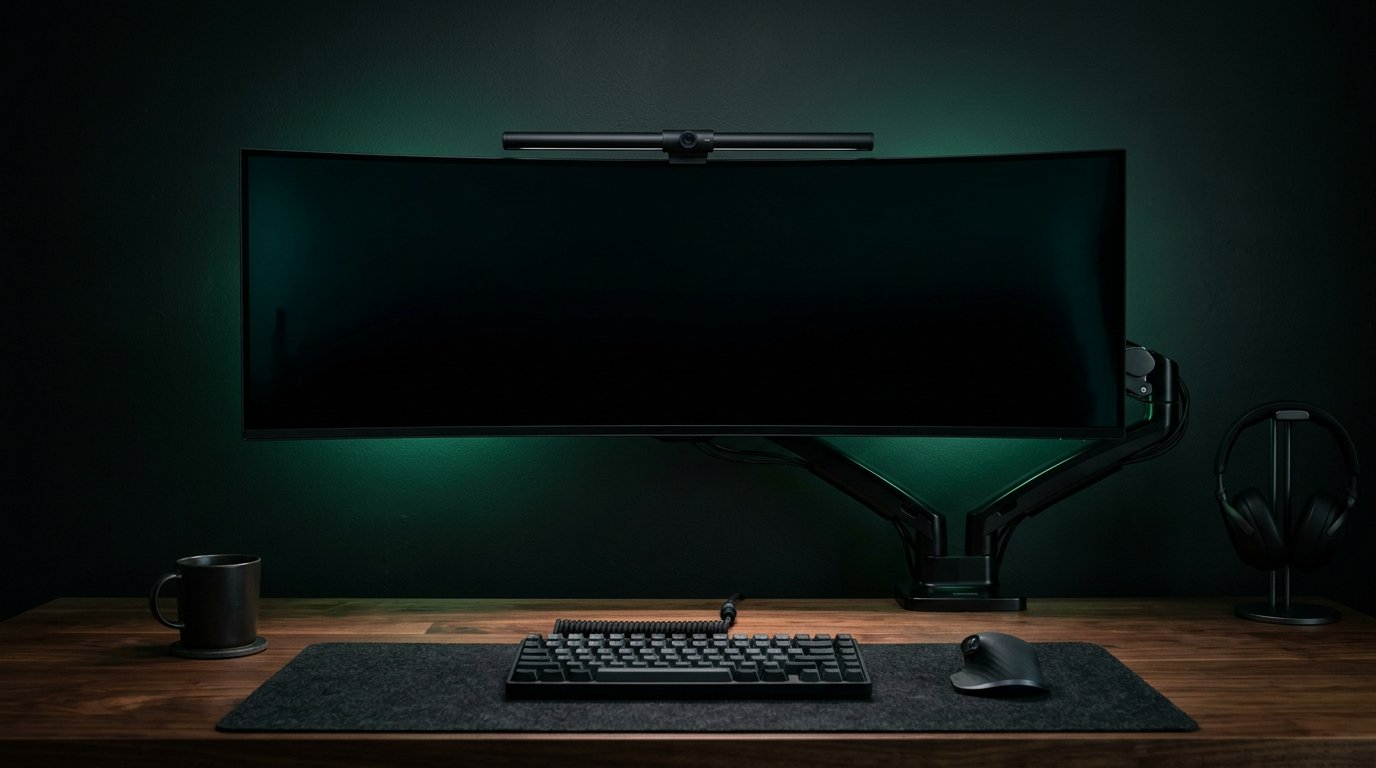
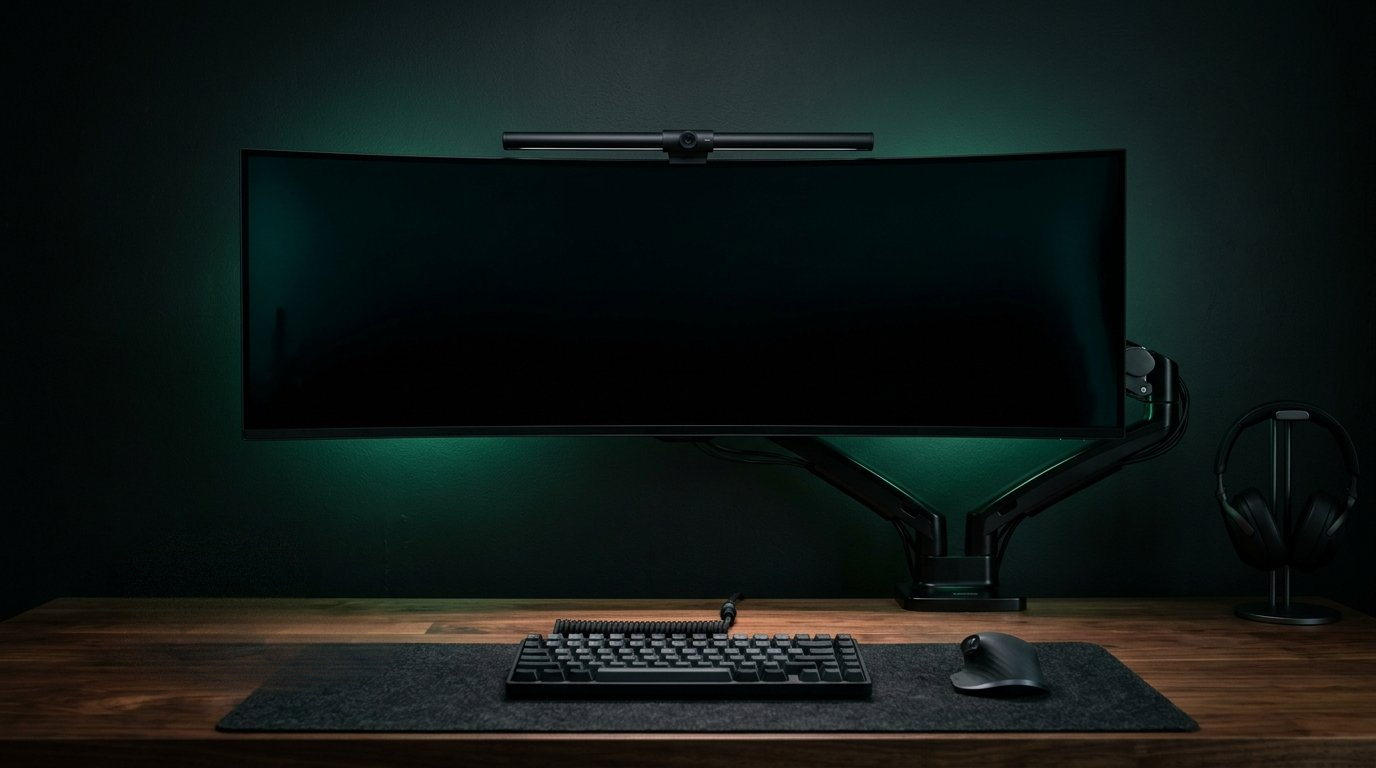
hero: clear the desk, and put the clock on the panel
The reference shot had two things worth keeping: an uncluttered desk, and a
lock-screen readout low-left on the monitor. The photo had a coffee mug in the
corner that the shot didn't ask for, and the panel was blank.

- hero-monitor.jpg: mug, coaster and cast shadow painted out by continuing each
  scanline across the gap — mirrored grain on the wood so the boards run
  unbroken, a row ramp on the wall so the green glow keeps its falloff, grain
  matched back in. Only the 228x140 box around the mug changed; same weight as
  the original file.
- HeroClock: the readout is real DOM over the photo, not baked pixels, so it
  stays selectable and sharp at any zoom. Space Grotesk (variable, added via
  Fontsource so it self-hosts) for the time at 430 — engineered enough for the
  LED-matrix and terminal vocabulary of the rest of the site, open enough to
  read at lock-screen scale — with the date as an IBM Plex Mono readout,
  tracked out, and a signal-green hairline between them.
- Sized against the frame, not the viewport: .hero-frame is a container, so
  every value is a share of the monitor and the block stays inside the bezel
  from 320px to ultrawide. Phones crop the photo rather than fit it, so below
  850px the readout moves to the visible centre of the panel and switches to
  viewport units.
- Animation lands with the boot reveal (5.35s): backlight bloom, digits
  focus-pull in one by one, rule draws out, date closes its tracking. The base
[…]

Changed region(s): [[0.125, 0.7188, 0.2188, 0.9062]]

diff --git a/src/index.css b/src/index.css
@@ -8,9 +8,10 @@
 @import '@fontsource/inter/latin-600';
 @import '@fontsource/pinyon-script/latin-400';
 @import '@fontsource/ibm-plex-mono/latin-400';
+@import '@fontsource-variable/space-grotesk/wght.css';
 
-@theme{--color-paper:#f3efe7;--color-paper-2:#eae4d8;--color-ink:#161513;--color-mute:#6a655c;--color-line:#d9d2c5;--color-rust:#b4451a;--color-signal:#c9f27a;--font-display:'Cormorant Garamond',serif;--font-body:'Inter',sans-serif;--font-mono:'IBM Plex Mono',ui-monospace,monospace;--font-script:'Pinyon Script',cursive}
-:root{--black:#050505;--white:#f4f2ed;--green:#00f083;--gray:#969696;--line:#282828;--serif:'Cormorant Garamond','EB Garamond','Times New Roman',serif;--sans:'Inter','Helvetica Neue',Arial,sans-serif;--mono:'IBM Plex Mono',ui-monospace,monospace;--script:'Pinyon Script',cursive;color-scheme:dark}
+@theme{--color-paper:#f3efe7;--color-paper-2:#eae4d8;--color-ink:#161513;--color-mute:#6a655c;--color-line:#d9d2c5;--color-rust:#b4451a;--color-signal:#c9f27a;--font-display:'Cormorant Garamond',serif;--font-body:'Inter',sans-serif;--font-mono:'IBM Plex Mono',ui-monospace,monospace;--font-grotesk:'Space Grotesk Variable',sans-serif;--font-script:'Pinyon Script',cursive}
+:root{--black:#050505;--white:#f4f2ed;--green:#00f083;--gray:#969696;--line:#282828;--serif:'Cormorant Garamond','EB Garamond','Times New Roman',serif;--sans:'Inter','Helvetica Neue',Arial,sans-serif;--mono:'IBM Plex Mono',ui-monospace,monospace;--script:'Pinyon Script',cursive;--grotesk:'Space Grotesk Variable','Space Grotesk',var(--sans);color-scheme:dark}
 *{box-sizing:border-box}html{background:var(--black);color:var(--white);scroll-behavior:smooth}body{margin:0;background:var(--black);font-family:var(--sans);font-size:14px;line-height:1.45;overflow-x:hidden}a{color:inherit;text-decoration:none}button{font:inherit}.skip-link{position:fixed;top:-60px;left:20px;z-index:100;padding:10px;background:white;color:black}.skip-link:focus{top:12px}:focus-visible{outline:1px solid var(--green);outline-offset:4px}::selection{background:var(--green);color:#000}
 .side-nav{position:fixed;z-index:50;left:28px;top:24px;width:90px}.nav-name{display:block;font-family:var(--serif);font-size:15px;margin-bottom:14px}.side-nav nav{display:flex;flex-direction:column;align-items:flex-start}.side-nav nav a{font-size:11px;line-height:1.55;transition:.2s}.side-nav nav a:hover{color:var(--green);padding-left:4px}.menu-toggle{display:none}
 .hero{min-height:100vh;position:relative;overflow:hidden;display:flex;justify-content:center;align-items:flex-start;padding-top:6vh}
@@ -33,8 +34,49 @@
   font-size: clamp(24px, 6vw, 48px);
   color: var(--white);
   text-shadow: 0 2px 4px rgba(0,0,0,.5);
-  opacity: 0;
-  animation: fadeIn 1s ease-out 0.5s forwards;
+}
+
+/* ——— hero lock-screen readout —————————————————————————————————————————————
+   The panel in hero-monitor.jpg is a photograph, so the clock on it is real
+   DOM laid over it in percentages of the frame. .hero-frame carries the photo's
+   own 1376x768 ratio and is a size container, which means every dimension here
+   is a share of the monitor itself: the readout grows and shrinks with the
+   screen instead of the viewport, and stays inside the bezel at any width.
+
+   Base state = fully drawn and sharp. The intro only exists while the boot
+   sequence is on (html[data-boot]), so a reduced-motion visitor — or a crawler
+   that never runs the animation — gets the finished, crisp thing.
+   ————————————————————————————————————————————————————————————————————————— */
+.hero-frame{container-type:inline-size}
+.hero-clock{position:absolute;left:22%;bottom:47.4%;z-index:130;display:grid;justify-items:start;gap:max(11px,.8cqw);pointer-events:none}
+.hero-clock-bloom{position:absolute;left:-9%;bottom:-16%;width:132%;height:150%;border-radius:50%;background:radial-gradient(ellipse at 34% 52%,rgba(150,255,196,.13),rgba(0,240,131,.055) 42%,transparent 72%);filter:blur(14px);opacity:.55;pointer-events:none}
+.hero-clock-sweep{position:absolute;left:-4%;top:-6%;width:108%;height:112%;pointer-events:none;opacity:0;background:linear-gradient(180deg,transparent 0,rgba(196,255,214,.16) 44%,rgba(255,255,255,.06) 52%,transparent 76%);mix-blend-mode:screen}
+.hero-clock-time{position:relative;display:flex;margin:0;font-family:var(--grotesk);font-weight:430;font-size:max(34px,5.4cqw);line-height:.82;letter-spacing:-.018em;color:var(--white);font-variant-numeric:tabular-nums}
+.hc-char{display:inline-block}
+.hero-clock-rule{position:relative;display:block;transform-origin:left;width:max(30px,3.4cqw);height:max(2px,.24cqw);border-radius:2px;background:var(--green);box-shadow:0 0 10px rgba(0,240,131,.5)}
+.hero-clock-date{position:relative;margin:0;font-family:var(--mono);font-weight:400;font-size:max(9px,1.15cqw);line-height:1;letter-spacing:.34em;text-transform:uppercase;color:#c9ccc6;text-shadow:0 1px 5px rgba(0,0,0,.55)}
+html[data-boot] .hero-tagline{animation:hcTag 1.2s ease-out calc(var(--hero-in,0s) + 1.15s) both}
+html[data-boot] .hero-clock-bloom{animation:hcBloom 2.6s cubic-bezier(.2,.7,.2,1) calc(var(--hero-in,0s) - .3s) both}
+html[data-boot] .hc-char{animation:hcChar .82s cubic-bezier(.16,1,.3,1) calc(var(--hero-in,0s) + .18s + var(--hc-i,0)*.085s) both}
+html[data-boot] .hero-clock-rule{animation:hcRule .75s cubic-bezier(.16,1,.3,1) calc(var(--hero-in,0s) + .62s) both}
+html[data-boot] .hero-clock-date{animation:hcDate 1s cubic-bezier(.16,1,.3,1) calc(var(--hero-in,0s) + .74s) both}
+html[data-boot] .hero-clock-sweep{animation:hcSweep 1.25s cubic-bezier(.42,0,.3,1) calc(var(--hero-in,0s) + .1s) both}
+@keyframes hcTag{0%{opacity:0;transform:translate(-50%,12px);filter:blur(7px)}100%{opacity:1;transform:translate(-50%,0);filter:blur(0)}}
+@keyframes hcChar{0%{opacity:0;transform:translateY(.42em) scale(.965);filter:blur(9px)}60%{opacity:1;filter:blur(0)}100%{opacity:1;transform:none;filter:blur(0)}}
+@keyframes hcDate{0%{opacity:0;transform:translateY(7px);letter-spacing:.72em;filter:blur(4px)}100%{opacity:1;transform:none;letter-spacing:.34em;filter:blur(0)}}
+@keyframes hcRule{0%{opacity:0;transform:scaleX(0)}100%{opacity:1;transform:scaleX(1)}}
+@keyframes hcBloom{0%{opacity:0}22%{opacity:1}100%{opacity:.55}}
+@keyframes hcSweep{0%{opacity:0;transform:translateY(-58%)}22%{opacity:1}100%{opacity:0;transform:translateY(66%)}}
+/* Small screens: the photo is centred and cropped, not fitted, so the panel's
+   low-left corner is off-frame. The readout moves to the middle of whatever is
+   actually visible and switches to viewport units, so it sizes to the screen
+   rather than to a frame the visitor can only see a slice of. */
+@media(max-width:850px){
+.hero-clock{left:50%;transform:translateX(-50%);bottom:47%;justify-items:center;gap:max(8px,1.7vw)}
+.hero-clock-time{font-size:clamp(30px,9.4vw,54px)}
+.hero-clock-rule{width:clamp(26px,7vw,44px);height:2px}
+.hero-clock-date{font-size:clamp(9px,2.7vw,13px);letter-spacing:.26em}
+.hero-clock-bloom{left:-14%;width:128%}
 }
 @keyframes fadeIn {
   to { opacity: 1; }
@@ -49,12 +91,10 @@
 @keyframes helloIn{from{opacity:0;transform:translateY(.35em);filter:blur(8px)}to{opacity:1;transform:translateY(0);filter:blur(0)}}
 @media(min-aspect-ratio:2/1){.tv-hello{top:12.5%;font-size:clamp(20px,2.4vw,40px)}}
 .preloader{position:fixed;inset:0;z-index:200;background:var(--black);display:grid;place-items:center;animation:preOut 1.5s cubic-bezier(.33,0,.2,1) 4.5s forwards}.pre-glow{position:absolute;width:70vw;height:60vh;background:radial-gradient(ellipse,rgba(0,240,131,.22) 0,rgba(0,155,85,.1) 40%,transparent 70%);filter:blur(18px);animation:preBreathe 2.4s ease-in-out infinite alternate}.pre-words{position:relative;display:grid;place-items:center}.pre-words span{grid-area:1/1;opacity:0;font-family:var(--serif);font-style:italic;color:var(--white);font-size:clamp(40px,8vw,92px);line-height:1.1;text-shadow:0 0 26px rgba(255,255,255,.3),0 0 70px rgba(0,240,131,.35);animation:preWord .9s cubic-bezier(.2,.7,.2,1) both}.pre-words span:nth-child(2){animation-delay:.9s}.pre-words span:nth-child(3){animation-delay:1.8s}.pre-words span:nth-child(4){animation-delay:2.7s}.pre-words span:nth-child(5){animation-delay:3.6s}
-@import url('https://fonts.googleapis.com/css2?family=Pinyon+Script&display=swap');
-
 @keyframes preWord{0%{opacity:0;transform:translateY(12px);filter:blur(10px)}25%,72%{opacity:1;transform:none;filter:blur(0)}100%{opacity:0;transform:translateY(-12px);filter:blur(10px)}}
 @keyframes preOut{to{opacity:0;visibility:hidden}}
 @keyframes preBreathe{from{opacity:.7;transform:scale(.96)}to{opacity:1;transform:scale(1.05)}}
-html[data-boot]{--hello-at:5s}
+html[data-boot]{--hello-at:5s;--hero-in:5.35s}
 html[data-boot] .hero-frame{animation:heroReveal 1.6s cubic-bezier(.16,1,.3,1) 4.6s both}
 html[data-boot] .side-nav{animation:navIn 1.2s ease 4.9s both}
 @keyframes heroReveal{from{opacity:0;transform:translate(-50%,-50%) scale(1.045);filter:blur(6px)}to{opacity:1;transform:translate(-50%,-50%);filter:blur(0)}}

diff --git a/src/components/HeroClock.tsx b/src/components/HeroClock.tsx
@@ -1,0 +1,82 @@
+import { useEffect, useState, type CSSProperties } from 'react'
+
+/**
+ * The hero's on-screen readout.
+ *
+ * `hero-monitor.jpg` is a photograph of a dark desk, and the reference shot had
+ * exactly one thing on the panel: a lock-screen clock sitting low-left — a huge
+ * time over a small weekday line. That is reproduced here as real DOM instead of
+ * pixels baked into the JPEG, so it stays selectable, stays crisp at any zoom,
+ * and can animate on its own schedule instead of the image's.
+ *
+ * Position is in percentages of `.hero-frame`, which is locked to the photo's own
+ * 1376×768 ratio, and the frame is a container, so the type sizes in
+ * src/index.css are in `cqw`: the readout scales with the monitor rather than
+ * the viewport. A phone gets the same lock screen, just smaller.
+ *
+ * By default the readout shows the still from the reference photo. Pass `live`
+ * and it shows the visitor's own local time instead, formatted identically —
+ * 24-hour, no seconds, so the panel reads as a clock and not a timestamp.
+ */
+
+const REFERENCE = { time: '12:27', date: 'Wednesday, December 7' }
+
+const DAYS = ['Sunday', 'Monday', 'Tuesday', 'Wednesday', 'Thursday', 'Friday', 'Saturday']
+const MONTHS = [
+  'January', 'February', 'March', 'April', 'May', 'June',
+  'July', 'August', 'September', 'October', 'November', 'December',
+]
+
+const pad = (n: number) => String(n).padStart(2, '0')
+const timeText = (d: Date) => `${pad(d.getHours())}:${pad(d.getMinutes())}`
+const dateText = (d: Date) => `${DAYS[d.getDay()]}, ${MONTHS[d.getMonth()]} ${d.getDate()}`
+
+/**
+ * Ticked every 15s — a minute-hand clock never needs a second hand.
+ *
+ * Only armed when `live`, and always empty on the first pass: the prerendered
+ * HTML carries the reference still, so the client paints the same thing before
+ * the effect swaps in the visitor's time. No timer, no flicker, no mismatch.
+ */
+function useLocal(active: boolean) {
+  const [now, setNow] = useState<Date | null>(null)
+  useEffect(() => {
+    if (!active) return
+    const tick = () => setNow(new Date())
+    tick()
+    const id = setInterval(tick, 15_000)
+    return () => clearInterval(id)
+  }, [active])
+  return now
+}
+
+export default function HeroClock({ live = false }: { live?: boolean }) {
+  const local = useLocal(live)
+  const time = local ? timeText(local) : REFERENCE.time
+  const date = local ? dateText(local) : REFERENCE.date
+
+  return (
+    <div className="hero-clock">
+      {/* the wake bloom — the panel lifting out of black, then settling */}
+      <i className="hero-clock-bloom" aria-hidden="true" />
+      {/* one wipe of the backlight as the glyphs land */}
+      <i className="hero-clock-sweep" aria-hidden="true" />
+
+      <time className="hero-clock-time" dateTime={time} aria-label={`${time}, ${date}`}>
+        {Array.from(time).map((char, i) => (
+          <span
+            key={`${char}-${i}`}
+            className={char === ':' ? 'hc-char hc-colon' : 'hc-char'}
+            style={{ '--hc-i': i } as CSSProperties}
+            aria-hidden="true"
+          >
+            {char}
+          </span>
+        ))}
+      </time>
+
+      <i className="hero-clock-rule" aria-hidden="true" />
+      <p className="hero-clock-date" aria-hidden="true">{date}</p>
+    </div>
+  )
+}

diff --git a/src/App.tsx b/src/App.tsx
@@ -1,5 +1,6 @@
 import { useEffect, useState } from 'react'
 import MacLaptop from './components/MacLaptop'
+import HeroClock from './components/HeroClock'
 import RevealText from './components/RevealText'
 import PegBoard from './components/PegBoard'
 import WorksWheel from './components/WorksWheel'
@@ -81,8 +82,9 @@ function Hero() {
     <section id="home" className="hero">
       <div className="hero-frame">
         <div className="hero-monitor-wrapper">
-          <img src={heroMonitor} alt="Monitor" className="hero-monitor" />
+          <img src={heroMonitor} alt="An ultrawide monitor on a wooden desk, lit from behind by a dim green light" className="hero-monitor" />
         </div>
+        <HeroClock />
         <p className="hero-tagline">
           {profile.first} · {profile.last}
         </p>

diff --git a/README.md b/README.md
@@ -24,6 +24,7 @@ Editorial paper layout, a systems map of the work and a separate certificates da
 - **Two pages:** the portfolio, plus `/dashboard` for square certificate tiles and achievements — opened from the "More certificates & achievements" button in the Learning section.
 - **Calmer motion:** scroll reveals, depth parallax and a pixel dissolve between blocks. No glitch/scramble text, no blocking intro sequence, no audio.
 - **Search-ready delivery:** both pages render real content into the initial HTML, with canonical metadata, social previews, JSON-LD and generated crawl files.
+- **The hero reads as a locked screen:** the monitor photo carries a live DOM readout low-left — Space Grotesk time over a tracked-out IBM Plex Mono date — sized in container units so it stays inside the panel from a 320px phone to an ultrawide, and typed on in step with the boot reveal.
 - **No runtime backend:** production output is static and deploys to GitHub Pages.
 
 ## Selected work
@@ -77,6 +78,7 @@ src/
   assets/                    Project screenshots, certificate scans, AWS logo
   components/
     Seo.tsx                  Central React 19 metadata (per page)
+    HeroClock.tsx            The lock-screen readout laid over the hero photo (see src/index.css)
     WorksWheel.tsx           The works index as a wheel you turn (see src/works-wheel.css)
     sections/                Hero, Systems, Work, About, Stats (Toolbox), WorkedAt (Learning)
     fx/                      Counter, pixel dissolve, skill logos
